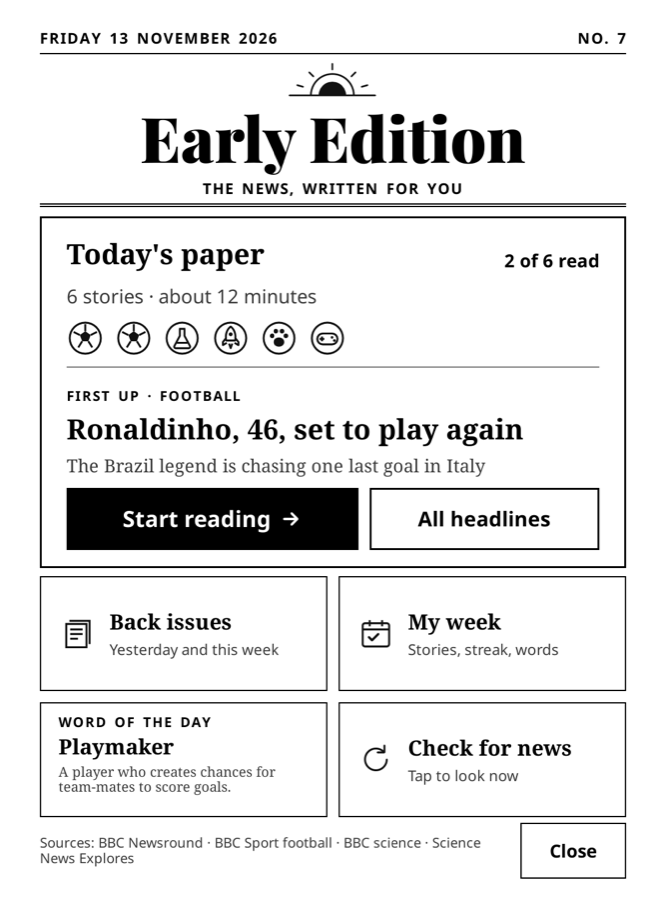
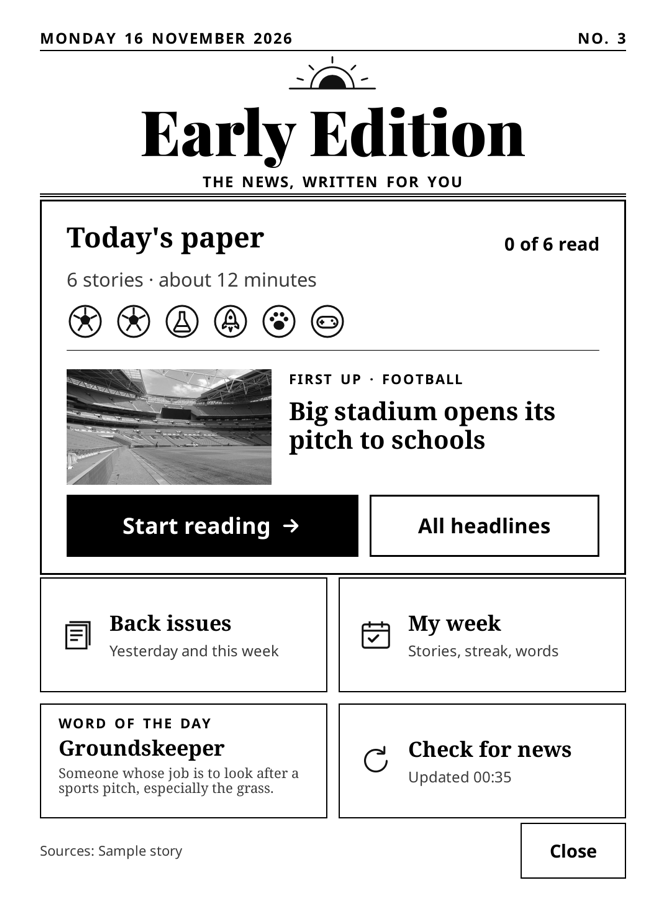
Docs: fresh Kindle front page screenshot, with the First up photo
The front page is the only Kindle screen whose look changed since the
14 November shots; the headline list, finished panel and back issues
are unchanged, so their screenshots stay. The Kindle page also no longer
says he/his about the reader.

Changed region(s): [[0.0601, 0.0311, 0.961, 0.9644]]

diff --git a/docs/kindle.md b/docs/kindle.md
@@ -10,7 +10,7 @@ These are captures from the KOReader emulator at the Kindle Paperwhite's size. E
 
 ## Front page
 
-<img src="images/kindle/front-page.png" width="360" alt="The Early Edition front page">
+<img src="images/kindle/front-page.png" width="360" alt="The Early Edition front page, with the First up story's photo beside its headline">
 
 - **Masthead:** the date, the issue number and the title.
 - **Today's paper:** how many stories and minutes, how many are read, a topic icon per story, and the first unread story with **Start reading**. When that story has a photo, it sits beside the headline instead of the teaser, and tapping either opens the story.
@@ -23,7 +23,7 @@ These are captures from the KOReader emulator at the Kindle Paperwhite's size. E
 <img src="images/kindle/todays-paper.png" width="360" alt="Today's paper, six headlines">
 
 - One large row per story: topic, headline, a one-line teaser and the reading time.
-- A story he has finished turns grey and gets a tick. The dots at the top right fill in as he reads.
+- A finished story turns grey and gets a tick. The dots at the top right fill in as the reader goes.
 - Rows are tall on purpose, for a child's finger.
 
 ## A story
@@ -31,7 +31,7 @@ These are captures from the KOReader emulator at the Kindle Paperwhite's size. E
 <img src="images/kindle/story-page.png" width="360" alt="The first page of a story: topic and reading time, the headline, a grey photo of a stadium with its credit, and the start of the text">
 
 - Stories open in KOReader's normal reader: swipe or tap to turn the page.
-- **Leaving early:** turning back from the first page (a left tap or a swipe right) closes the story and goes back to the headlines or front page it was opened from. What he read still counts; the story isn't marked read.
+- **Leaving early:** turning back from the first page (a left tap or a swipe right) closes the story and goes back to the headlines or front page it was opened from. What was read still counts; the story isn't marked read.
 - **The photo:** most stories have the source's main photo under the headline, in grey and cropped to the page's width, with a credit. A story without one starts with its text. The photo makes a story about a page longer.
 - The photo and the page are downloaded together, so a story never shows a missing picture.
 
@@ -40,7 +40,7 @@ These are captures from the KOReader emulator at the Kindle Paperwhite's size. E
 <img src="images/kindle/story-finished.png" width="360" alt="The last page of a story with the Story finished panel">
 
 - Every story ends with a **Word to know**, a **Think about it** question and the source.
-- The **Story finished!** panel appears when he turns forward from the last page, so it never covers text he hasn't read.
+- The **Story finished!** panel appears on turning forward from the last page, so it never covers unread text.
 - **Next story** names the next unread story and opens it in one tap.
 
 ## Back issues
@@ -48,7 +48,7 @@ These are captures from the KOReader emulator at the Kindle Paperwhite's size. E
 <img src="images/kindle/back-issues.png" width="360" alt="Back issues, the last five papers">
 
 - The last 7 papers are kept on the Kindle, so this screen needs no network.
-- Each row shows the day, the lead headline and how much of that paper he read.
+- Each row shows the day, the lead headline and how much of that paper was read.
 
 ## With Simple UI
 
